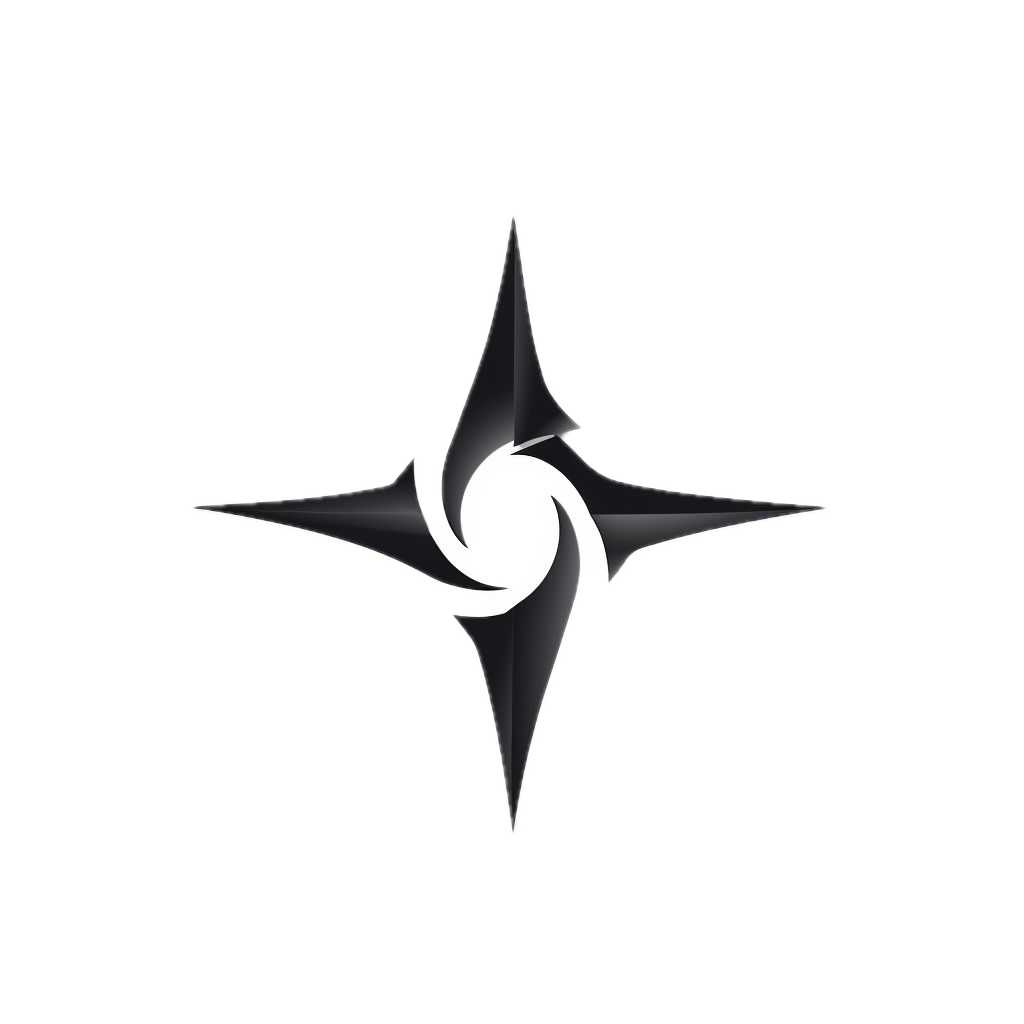
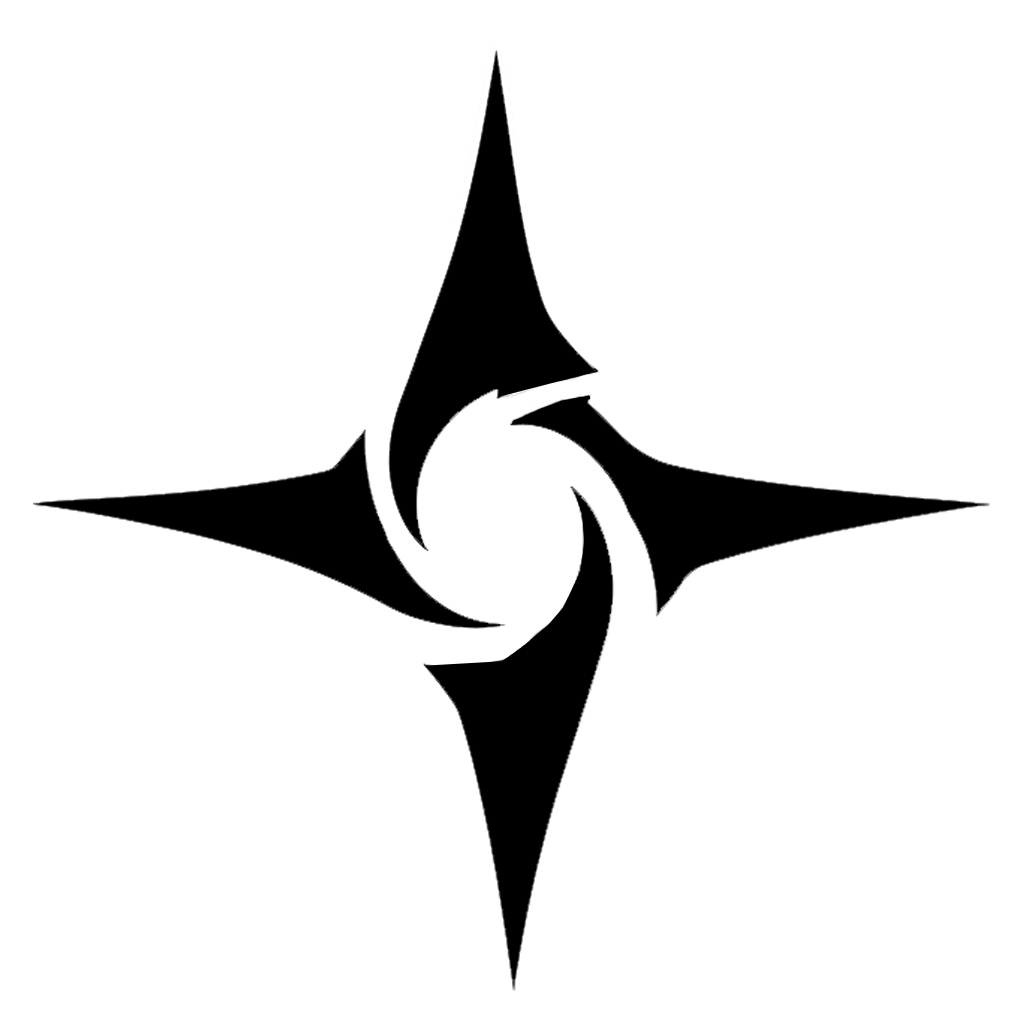
feat: new features to prod

Changed region(s): [[0.0312, 0.0625, 0.9688, 0.9688]]

diff --git a/app/dashboard/[id]/page.tsx b/app/dashboard/[id]/page.tsx
@@ -5,10 +5,11 @@ import { Toast } from "../../contexts/toastContext";
 import { User, createClient } from "@supabase/supabase-js";
 import CategoryBox, { Category } from "../../../components/CategoryBox";
 import { welcomeUser } from "../../utils/welcomeUser";
-import { Chip, input } from "@nextui-org/react";
+import { Chip } from "@nextui-org/react";
 import { PanelLeftOpen, PlusIcon } from "lucide-react";
 import Sidebar from "../../../components/Sidebar";
 import { toast } from "sonner";
+import Filters from "./components/filters";
 
 export interface Workspace {
   id?: string;
@@ -244,36 +245,46 @@ export default function Dashboard({ params }: DashboardProps) {
               <></>
             )}
 
-            <div className="flex gap-x-2 items-center mb-8">
-              {editingTitle ? (
-                <form onSubmit={editWorkspaceTitle}>
-                  <input
-                    type="text"
-                    className="bg-transparent outline-none text-3xl text-black"
-                    placeholder={workspace?.name}
-                    value={newWorkspaceTitle}
-                    onChange={(e) => setNewWorkspaceTitle(e.target.value)}
-                  />
-                </form>
-              ) : (
-                <h1
-                  className="text-3xl text-black font-bold"
-                  onClick={() => setEditingTitle(true)}
-                >
-                  {workspace?.name}
-                </h1>
-              )}
+            <div className="fixed w-screen flex gap-x-2 items-center mb-8 justify-between">
+              <div className="flex gap-x-2 items-center">
+                {editingTitle ? (
+                  <form onSubmit={editWorkspaceTitle}>
+                    <input
+                      type="text"
+                      className="bg-transparent outline-none text-3xl text-black"
+                      placeholder={workspace?.name}
+                      value={newWorkspaceTitle}
+                      onChange={(e) => setNewWorkspaceTitle(e.target.value)}
+                    />
+                  </form>
+                ) : (
+                  <div className="flex items-center">
+                    <div className="flex gap-x-4 items-center">
+                      <h1
+                        className="text-3xl text-black font-bold"
+                        onClick={() => setEditingTitle(true)}
+                      >
+                        {workspace?.name}
+                      </h1>
+                    </div>
+                  </div>
+                )}
 
-              {!loading ? (
-                <Chip color="primary" variant="shadow">
-                  {workspace?.tier}
-                </Chip>
-              ) : (
-                <></>
-              )}
+                <div>
+                  {!loading ? (
+                    <Chip color="primary" variant="shadow">
+                      {workspace?.tier}
+                    </Chip>
+                  ) : (
+                    <></>
+                  )}
+                </div>
+              </div>
+
+              <Filters />
             </div>
 
-            <div className="h-full">
+            <div className="h-full mt-32">
               {loading ? (
                 <div className="flex gap-x-4 h-full">
                   {Array(3)

diff --git a/app/dashboard/[id]/components/filters.tsx b/app/dashboard/[id]/components/filters.tsx
@@ -1,0 +1,42 @@
+import React, { useMemo, useState } from "react";
+import {
+  Dropdown,
+  DropdownTrigger,
+  DropdownMenu,
+  DropdownItem,
+  Button,
+} from "@nextui-org/react";
+
+export default function Filters() {
+  const [selectedKeys, setSelectedKeys] = useState(new Set(["text"]));
+
+  const selectedValue = useMemo(
+    () => Array.from(selectedKeys).join(", ").replaceAll("_", " "),
+    [selectedKeys]
+  );
+
+  return (
+    <Dropdown className="z-50">
+      <DropdownTrigger>
+        <Button variant="bordered" className="capitalize">
+          {selectedValue}
+        </Button>
+      </DropdownTrigger>
+      <DropdownMenu
+        aria-label="Multiple selection example"
+        variant="flat"
+        closeOnSelect={false}
+        disallowEmptySelection
+        selectionMode="multiple"
+        selectedKeys={selectedKeys}
+        onSelectionChange={(e) => setSelectedKeys}
+      >
+        <DropdownItem key="text">Text</DropdownItem>
+        <DropdownItem key="number">Number</DropdownItem>
+        <DropdownItem key="date">Date</DropdownItem>
+        <DropdownItem key="single_date">Single Date</DropdownItem>
+        <DropdownItem key="iteration">Iteration</DropdownItem>
+      </DropdownMenu>
+    </Dropdown>
+  );
+}

diff --git a/components/CategoryBox/index.tsx b/components/CategoryBox/index.tsx
@@ -79,27 +79,31 @@ export default function CategoryBox({
 
     console.log({ categoryToasts });
 
-    if (!categoryToasts.data || !categoryToasts.data.length) return;
+    if (categoryToasts.data && categoryToasts.data.length) {
+      for (const toast of categoryToasts.data) {
+        await supabase.from("toasts").delete().eq("id", toast.id);
+      }
 
-    for (const toast of categoryToasts.data) {
-      await supabase.from("toasts").delete().eq("id", toast.id);
+      toast.success(`🧹 ${categoryToasts.data.length} toasts deleted`);
     }
 
     const { data, error } = await supabase
       .from("categories")
       .delete()
-      .eq("id", category.id);
+      .eq("id", category.id)
+      .select("*");
 
     if (error) {
       console.log({ error });
     }
 
+    console.log({ data });
+
     if (data) {
       create(`Category ${category.name} deleted`, user?.id ?? "");
       setCategories(categories.filter((c) => c.id !== category.id));
 
-      toast.success(`✨ Category ${category.name} deleted`);
-      toast.success(`🧹 ${categoryToasts.data.length} toasts deleted`);
+      toast.success(`🧹 Category ${category.name} deleted`);
     }
   };
 

diff --git a/components/LayoutPreview.tsx b/components/LayoutPreview.tsx
@@ -53,7 +53,7 @@ export default function LayoutPreview() {
   const populateToasts = () => {
     toastList.forEach((toast, index) => {
       setTimeout(() => {
-        addToast(toast);
+        addToast(toast, true);
         setToastAdded(true);
 
         setTimeout(() => {
@@ -65,7 +65,7 @@ export default function LayoutPreview() {
     setTimeout(() => {
       secondToastList.forEach((toast, index) => {
         setTimeout(() => {
-          addToast(toast);
+          addToast(toast, true);
           setToastAdded(true);
 
           setTimeout(() => {
@@ -78,7 +78,7 @@ export default function LayoutPreview() {
     setTimeout(() => {
       thirdToastList.forEach((toast, index) => {
         setTimeout(() => {
-          addToast(toast);
+          addToast(toast, true);
           setToastAdded(true);
 
           setTimeout(() => {

diff --git a/components/Sidebar/index.tsx b/components/Sidebar/index.tsx
@@ -97,7 +97,7 @@ export default function Sidebar({
 
   return (
     <div
-      className={`aside h-screen fixed bg-zinc-100 p-4 flex flex-col justify-between ${
+      className={`aside h-screen fixed bg-zinc-100 p-4 flex flex-col justify-between z-50 ${
         isClosing ? "animate-out slide-out-to-left" : ""
       } ${isOpen ? "animate-in slide-in-from-left" : "hidden"}`}
     >

diff --git a/app/signup/page.tsx b/app/signup/page.tsx
@@ -39,7 +39,7 @@ export default function Signup() {
       <div className="p-16 flex flex-col justify-between">
         <Link href={"/"}>
           <NextImage
-            src={"/raiden-black-png.png"}
+            src={"/raiden-new-png.png"}
             alt="Hiso Logo"
             className="h-16 w-auto"
             isBlurred

diff --git a/app/(home)/page.tsx b/app/(home)/page.tsx
@@ -6,7 +6,7 @@ import RaidenLogo from "../../app/assets/raiden-new-png.png";
 
 export default function Home() {
   return (
-    <main className="py-16">
+    <main className="py-16 h-screen">
       <div className="flex pb-8 justify-center">
         <Image
           src={RaidenLogo}
